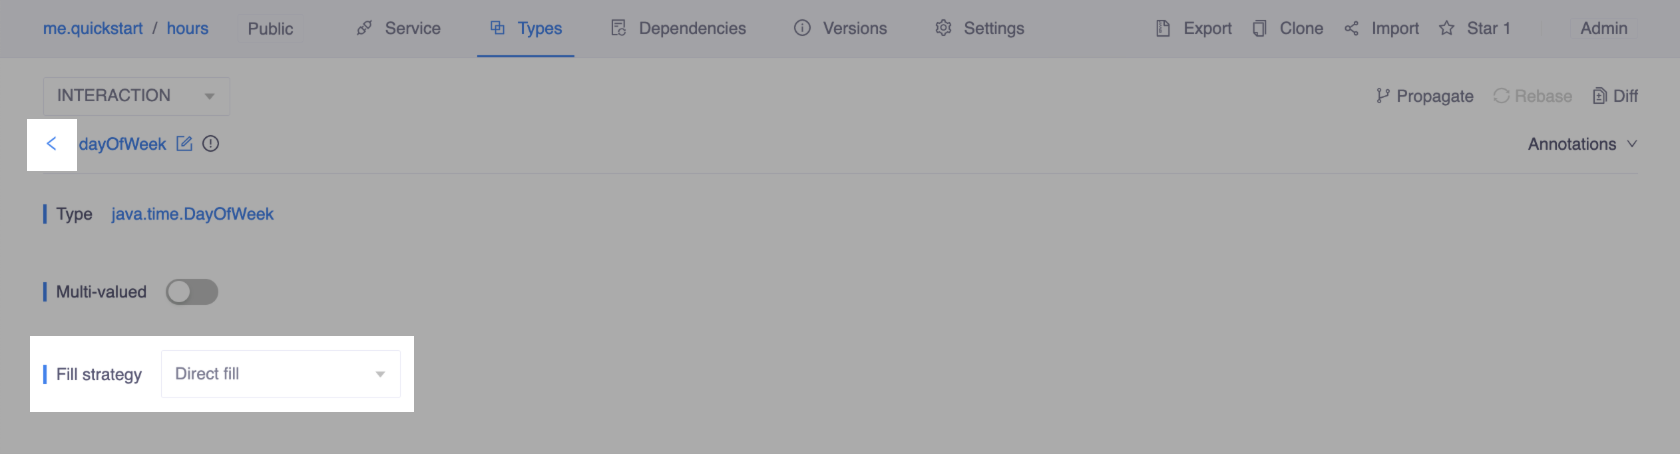
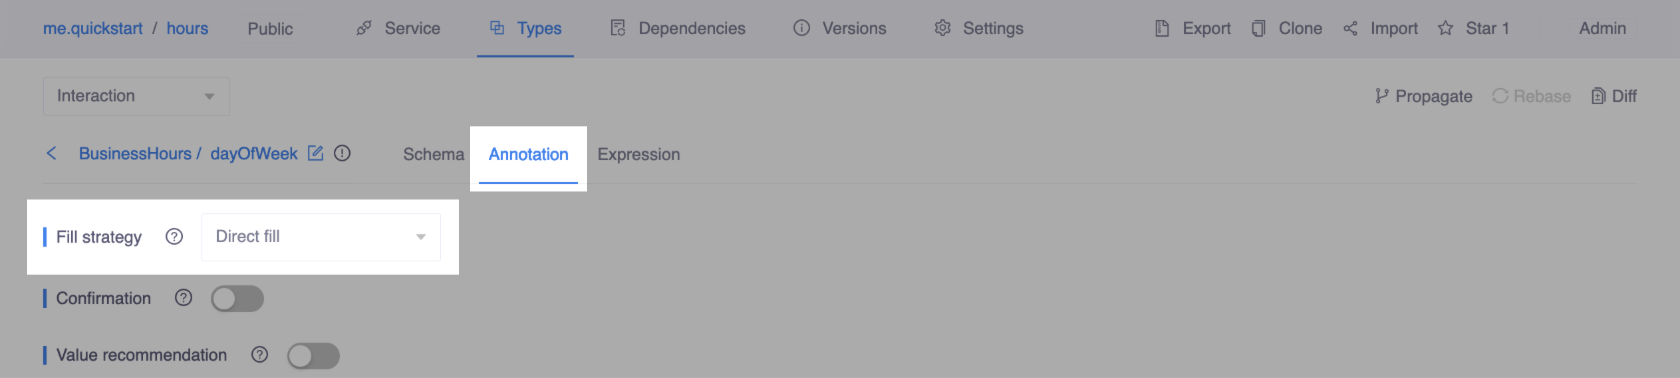
update use/build hours

diff --git a/docs/guide/build-service.md b/docs/guide/build-service.md
@@ -1,37 +1,37 @@
 # Build a full-stack component
 
-In the previous guide, we showed you how to enable your chatbot field various business hours queries by [reuse an existing component](./use-hours.md). In this guide, we will show you how to build such a full-stack component, including both the module and corresponding PostgREST provider. 
+In the previous guide, we showed you how to enable your chatbot to field various business hours queries by [reusing an existing component](./use-hours.md). In this guide, we will show you how to build such a full-stack component, including both the module and the corresponding PostgREST provider. 
 
 ## Before you start
 
 - [Sign up](./signingup.md#sign-up) for an account and log in to [OpenCUI](https://build.opencui.io/login).
-- [Build a simple chatbot](./pingpong.md) for how to build a skill with entity slot.
+- [Build a simple chatbot](./pingpong.md) for how to build a skill with entity slots.
 - [Reuse a full-stack module](./use-hours.md) to get familiar with the functionality we try to build here.
 
 ## Build a module
-On OpenCUI, to expose a service through conversational user interface, you create a module, declare the service in it and then define the conversational user interface on top of the service. 
+On OpenCUI, to expose a service through a conversational user interface, you need to create a module, declare the service in it and define the conversational user interface on top of the service. 
 
 ### Create a module
 1. Within an org, click **Create** on the right side and select **Create module**.
-2. In a pop-up window, enter _hours_ in the **Project label** field, add **English(en)** in the **Languaes** field, and **Enable service interface**. Once done, click **Create**.
+2. In a pop-up window, enter _hours_ in the **Project label** field, add **English(en)** in the **Languages** field, and **Enable service interface**. Once done, click **Create**.
 
 ### Declare a service
-To declare a service means that you define the function type for each API in the service. However, in order to define these function types, you must first define the data type for their input parameters and return values, which may need to be defined recursively in case one of these data types is composite.
+Declaring a service means that you define the function type for each API in the service. However, in order to define these function types, you must first define the data type for their input parameters and return values, which may need to be defined recursively in case one of these data types is composite.
 
 #### Create required type: BusinessHours
-For a function return the business hours on a specific day, the following information is needed:
+For a function returning the business hours on a specific day, the following information is needed:
 - **dayOfWeek**: the day of the week, like Monday, Tuesday, etc.
 - **ifOpen**: whether it's open on that day.
 - **openingTime**: the time it opens.
 - **closingTime**: the time it closes.
 
-Before you can declare the function, let's create a [frame](../reference/concepts.md#frames) type for its return type. Since you don't need to create instance of this type through conversations, so you just need to declare this at schema level.
+Before you can declare the function, let's create a [frame](../reference/concepts.md#frames) type for its return type. Since you don't need to create instances of this type through conversations, you just need to declare this at schema level.
 
 To create a frame:
 1. Within the module hours, go to **Types** page, click **Create** on the right side, and select **Create frame**.
 2. Enter _BusinessHours_ as the frame label.
 3. In the **Slots** section, click **Add slot** and select **Entity** > **java.time.DayOfWeek**.
-4. Inside the entity, change the **Fill Strategy** to **Direct Fill**, and click **<** to go back to the frame page.
+4. Inside the entity, go to **Annotation** tab, change the **Fill Strategy** to **Direct Fill**, and click **<** to go back to the frame page.
 
    ::: thumbnail
    ![change fill strategy](/images/guide/build-service/change-fill-strategy.png)
@@ -56,7 +56,7 @@ Once finished, the frame should look like this:
 
 #### Add function interfaces
 
-To return business hours on a specific day and in a week, lets use the following two API functions:
+To return business hours on a specific day and in a week, let's use the following two API functions:
 1. **getHoursDay**(date:java.time.LocalDate):BusinessHours
 2. **getHoursWeek**():List\<BusinessHours\>
 
@@ -78,12 +78,12 @@ Once finished, the function interfaces should look like this:
 ![show functions](/images/guide/build-service/show-functions.png)
 :::
 
-Now that you have finished declaring a service. You can [view your changes and merge your branch into the master](./opencui-flow.md#review-and-merge-pull-request).
+Now that you have finished declaring a service, you can [create a pull request](./opencui-flow.md#create-a-pull-request), [view it and merge it into the master](./opencui-flow.md#review-and-merge-pull-request).
 
 ### Build conversational user interface for the service
 To offer a functionality through a conversational user interface, you need to define a skill. A skill is essentially a function type with dialog annotations, allowing chatbot to create a callable object to activate the service. The input parameters of the function are captured by the skill's slots, and the function's return can be displayed using its response. 
 
- As always, to build a type, we should first define its dependent types. In this case, the skill you will build does not require new types, so you can start to define a skill that utilizes service APIs right away.
+As always, to build a type, we should first define its dependent types. In this case, the skill you will build does not require new types, so you can start to define a skill that utilizes service APIs right away.
 
 #### Build _ShowHour_ skill
 
@@ -110,16 +110,14 @@ When a user triggers a skill, the chatbot follows the interaction logic based on
 - If the user doesn't mention a specific date, the chatbot should display the business hours for the week.
 - If the user provides a date, and the business is open on that day, the chatbot should show the business hours. If the business is closed, the chatbot should inform the user that it's closed.
 
-Since the desired behavior is when user did not mention the date, chatbot should respond directly. This slot filling behavior is supported by the [Recover only](../reference/annotations/fillstrategy.md#recover-only).
+Since the desired behavior is when the user does not mention the date, the chatbot should respond directly, this slot filling behavior should be supported by [Recover only](../reference/annotations/fillstrategy.md#recover-only).
 1. Go to the skill **ShowHours** page, click the slot **datePicker**
-2. Change **Fill Strategy** to Recover only.
+2. Under the **Annotation** tab, change **Fill Strategy** to Recover only.
 
 ###### Add responses
-The responses for this are depending on a number of the things: whether datePicker is filled, and what is the returned value. On OpenCUI, the response can be configured to have no branching, or we can turn on the branching, and add branching. Each branching is controlled by a condition, and then a response. There are a couple of different response types supported, including multiple value messages to show list data.
+The responses for this are depending on a number of the things: whether datePicker is filled and what the returned value is. On OpenCUI, the response can be configured to have no branching, or we can turn on the branching, and add branching. Each branching is controlled by a condition, and then a response. There are a couple of different response types supported, including multiple value messages to show list data.
 
-Responses are also first defined at interaction level. Clearly, you will need turn on the branching for Response.
-
-1. so under the **Response** tab, turn on **Branching**.
+1. Responses are also first defined at interaction level. Clearly, you will need turn on the branching for Response, so under the **Response** tab, turn on **Branching**.
    ::: thumbnail
    ![add a branch](/images/guide/build-service/branching.png)
    :::
@@ -141,7 +139,6 @@ Responses are also first defined at interaction level. Clearly, you will need tu
    - In the **Action sequence** section, select **Single value message** and **Multiple value message**.
      - **Single value message** is to inform the user it's closed on that day.
      - **Multiple value message** is display business hours in a week, so the user can get additional information to make a choice.
-     - 
 4. Use default branch to display business hours for each day in a week:
     - Navigate to the **Response** tab and select **Multiple value message** under the **Default action** section.
     - In the **Source** section, copy and paste the following code:
@@ -150,17 +147,17 @@ Responses are also first defined at interaction level. Clearly, you will need tu
    ```
    
 #### Add templates and exemplars
-Before you start, make sure you **Propagate** all the changes you made in the interaction layer to the language layer and switch from the **Interaction** layer to the **Language/En** layer.
+Before you start, make sure you **Propagate** all the changes you made in the interaction layer to the language layer and switch from the **Interaction** layer to the **Language/en** layer.
 
 1. Go to the skill **ShowHours** page. Under the **Schema** tab, in the **Slots** section, click the slot **datePicker**. Enter _date_ in the **Names** field.
-2. Under the **Response** tab, in the **Default action** filed. In the **Multiple value message** section, enter the following content:
+2. Go back to the skill **ShowHours** page and navigate to the **Response** tab. In the **Default action** field, under the **Multiple value message** section, enter the following content:
      - **Header**: Our business hours in a week are
      - **Body**:
         - ${`it.value.dayOfWeek!!.expression()`}
         - ${`if (it.value.ifOpen == true) it.value.openingTime!!.expression() + " – " + it.value.closingTime!!.expression() else "Closed"`}
-3. Under the **Response** tab, in the **Branching** filed, click the first branch. 
+3. Under the **Response** tab, in the **Branching** field, click the first branch. 
    - In the **Single value message** section, enter this: We are open on ${`datePicker!!.date!!.expression()`} from ${`hours.getHoursDay(datePicker!!.date!!).openingTime!!.expression()`} to ${`hours.getHoursDay(datePicker!!.date!!).closingTime!!.expression()`}.
-4. Back to the **Branching** filed, click the second branch. 
+4. Back to the **Branching** field, click the second branch. 
    - In the **Single value message** section, enter this: Sorry, but we don't open on ${`datePicker!!.date!!.expression()`}.
    - In the **Multiple value message** section, enter the following content:
      - **Header**: Our business hours in a week are
@@ -174,23 +171,23 @@ Before you start, make sure you **Propagate** all the changes you made in the in
       - _Do you open  $datePicker$?_
      
 ::: warning Attention
-Do **NOT** copy and paste the value wrapped by `$`, please type the value instead.
+Do **NOT** copy and paste the value wrapped by `$`. Please type the value instead.
 :::
 
-Now that you have finished building a module. You can [view your changes](../reference/platform/versioncontrol.md#view-your-changes) and merge your branch into the master.
+Now that you have finished building a module, you can [create a pull request](./opencui-flow.md#create-a-pull-request), [view it and merge it into the master](./opencui-flow.md#review-and-merge-pull-request).
 
 ## Build a provider
 
-After declaring a service in a module, the next step is to develop a provider for it. On OpenCUI platform, the provider serves as a backend stub to actual backend implementation of the service. Most providers are external, meaning the backend are developed and deployed elsewhere in related but separated effort. 
+After declaring a service in a module, the next step is to develop a provider for it. On OpenCUI platform, the provider serves as a backend stub to actual backend implementation of the service. Most providers are external, meaning the backend is developed and deployed elsewhere in related but separated effort. 
 
 However, there is an OpenCUI-hosted provider called [PostgREST provider](../reference/providers/postgrest.md), which allows you to use PostgreSQL as data storage and implement API functions using SQL on OpenCUI platform. OpenCUI will make these functions available to your chatbot and back office through a RESTful gateway called PostgREST.
 
 To develop a backend using a database and expose functionalities through RESTful APIs, we need to address several issues conceptually:
 - At the schema level, we need to determine the necessary tables, their schemas, and types for each column. We may also need to define PostgreSQL composite types as return types for SQL functions.
 - At the business logic level, we need to decide on the functionalities we want to expose and determine how to implement them.
-- At the admin side, we need to consider how the owner can manipulate the data hosted in the database, including typical CRUD operations.
+- On the admin side, we need to consider how the owner can manipulate the data hosted in the database, including typical CRUD operations.
 
-On OpenCUI, you can declare a frame, or user defined composite type as basis for table, and add storage annotation to this type so that OpenCUI knows how you want to create table. You can use backoffice annotation to control how data are manipulated in admin tool. Furthermore, you can implement function using SQL, and OpenCUI will turn them into stored procedure and expose them via RESTful automatically. Let's see how we can build a PostgREST provider.
+On OpenCUI, you can declare a frame, or user defined composite type as basis for table, and add storage annotation to this type so that OpenCUI knows how you want to create table. You can use backoffice annotation to control how data are manipulated in admin tool. Furthermore, you can implement functions using SQL, and OpenCUI will turn them into stored procedures and expose them via RESTful automatically. Let's see how we can build a PostgREST provider.
 
 ### Import the module for the service
 To implement a service, you need to declare all the necessary types for that service. This can be done by importing the module where the service is defined. Here are the steps to follow:
@@ -198,7 +195,7 @@ To implement a service, you need to declare all the necessary types for that ser
 2. Enter the module where the service is declared and import it into the target project.
 
 ### Create type needed by implementation 
-Sometimes, you need intermediate function to simplify the development, this and other reasons might require implementation specific types to be defined. For the service that you want to implement here, it is not the case, so we can skip this step.
+Sometimes, to simplify development, you may need intermediate functions. This, along with other reasons, may require defining specific types for implementation. For the service that you want to implement here, it is not the case, so we can skip this step.
 
 ### Annotate for schema and backoffice
 With the PostgREST provider, you can define a table schema by adding storage annotations to a data type. This enables OpenCUI to automatically create a mapping between the database and Kotlin code. OpenCUI will create tables based on the type definition and storage annotations in a separate database for your organization. Additionally, you should add backoffice annotations to each slot to define how the corresponding column should be displayed and manipulated in the backoffice.
@@ -303,6 +300,7 @@ Finally, after the tables are ready, you can provide implementation for each fun
          SELECT "Configuration"."timeZone" FROM "Configuration" LIMIT 1;
       END
       ```
+   - Click **Save**.
 
 4. In the **Functions** section, click function **getHoursWeek**
    - Select **Kotlin** as the **Implementation**.
@@ -321,4 +319,4 @@ Finally, after the tables are ready, you can provide implementation for each fun
    ```
    - Click **Save**.
 
-Now that you have finished building a PostgREST provider. You can view your changes and merge your branch into the master. In the next step, you can use backoffice to add data for testing and use [function console](../reference/providers/postgrest.md#function-console) to test the functions that you just implemented.
+Now that you have finished building a PostgREST provide, you can [create a pull request](./opencui-flow.md#create-a-pull-request), [view it and merge it into the master](./opencui-flow.md#review-and-merge-pull-request). In the next step, you can use backoffice to add data for testing and use [function console](../reference/providers/postgrest.md#function-console) to test the functions that you just implemented.

diff --git a/docs/guide/use-hours.md b/docs/guide/use-hours.md
@@ -1,5 +1,5 @@
 # Reuse a full-stack component
- Modern business applications are typically broken down into a set of services, each responsible for a specific functionality. For example, airline might have a ticketing service, which includes booking, checking whether a seat is available and canceling. All user interfacing applications are built to expose these kinds of services, chatbot included.
+Modern business applications are typically broken down into a set of services, each responsible for a specific functionality. For example, airline might have a ticketing service, which includes booking, checking whether a seat is available and canceling. All user interfacing applications are built to expose these kinds of services, chatbot included.
 
 A service defines a set of API functions that specify how business functionalities can be accessed. By using a service as an interface, you can divide chatbot building into backend for business logic and frontend for conversational user interface, each of which can be taken care of by different teams.
 
@@ -53,7 +53,7 @@ We are open on Friday, March 31, 2023 from 10:00 AM to 11:00 PM.
 [Sign up](./signingup.md#sign-up) for an account and log in to [OpenCUI](https://build.opencui.io/login).
 
 ## Prepare a provider
-Before the chatbot can serve requests regarding business hours using an existing module, you need to clone its provider into your organization and configuring it so that it can connect to the actual backend. Additionally, you need to populate the backend with your business information.
+Before the chatbot can serve requests regarding business hours using an existing module, you need to clone its provider into your organization and configure it so that it can connect to the actual backend. Additionally, you need to populate the backend with your business information.
 
 In this guide, you will clone a PostgREST provider. The PostgREST provider is an OpenCUI-hosted provider, which means that the backend, or the actual implementation of services, is also managed by OpenCUI. This backend is essentially a PostgreSQL database with RESTful access, and comes with an admin interface called backoffice so that business operators can populate the database with their business data. In this case, you can set the main business hours for each day of the week, as well as the hours for special days such as holidays. Hosted providers introduce no external dependency, making the deployment of the chatbot easier. Furthermore, the connection is automatically configured so that builders don't need to worry about it.
 
@@ -148,20 +148,20 @@ On OpenCUI, importing modules is a way to build complex conversational behavior 
 Now it's time to add functionality to the chatbot so that users can access the hours service via conversation. It is simple: just import the module with desired functionality into your chatbot and connect the service to a provider in your organization.
 
 ### Import the module
-- Enter source module [hours](https://build.opencui.io/org/me.quickstart/agent/hours/struct/service_schema), the one that you want to reuse. You can also go there by doing a search on the explore tab.
-- Click **Import**.
-- Select the chatbot or module you want to import to.
-- Click **Save**.
+1. Enter source module [hours](https://build.opencui.io/org/me.quickstart/agent/hours/struct/service_schema), the one that you want to reuse. You can also go there by doing a search on the explore tab.
+2. Click **Import**.
+3. Select the chatbot or module you want to import to.
+4. Click **Save**.
 
   ::: thumbnail
   ![import service](/images/guide/use-service/import-service.png)
   :::
 
 ### Set up a service provider
-- Enter the chatbot.
+1. Enter the chatbot.
 
-- In the navigation bar, select the **Settings** tab and head to **Integrations** page. In the **Debug service provider** section, click **Select service** and select `me.quickstart.hours.IHours`. You need to set this up again for production environment under **Deploy service provider** when you are ready for the deployment.
-   - Enter a unique label
+2. In the navigation bar, select the **Settings** tab and head to **Integrations** page. In the **Debug service provider** section, click **Select service** and select `me.quickstart.hours.IHours`. Afterward, when you are ready to deploy your service to the production environment, you will need to set this up again under the **Deploy service provider** section.
+   - Enter a unique label.
    - Click **Select service implementation** and select the provider you created by cloning.
 
    ::: thumbnail
@@ -177,7 +177,7 @@ Finally, you can try the chatbot for business hours using [Debug](../reference/p
    ![debug hours week](/images/guide/use-service/debug-hours-week.png)
    :::
 
-2. Send "_Do you open this Friday?_" and if it's open this Friday, you will get the business hours on this Friday. If not, you will be told it's closed and the business hours in a week will be shown.
+2. Send "_Do you open this Friday?_" and you will get the business hours on this Friday if it's open this Friday. If not, you will be told it's closed and the business hours in a week will be shown.
 
    ::: thumbnail
    ![debug HoursDay if it's open](/images/guide/use-service/debug-hours-day-open.png)
